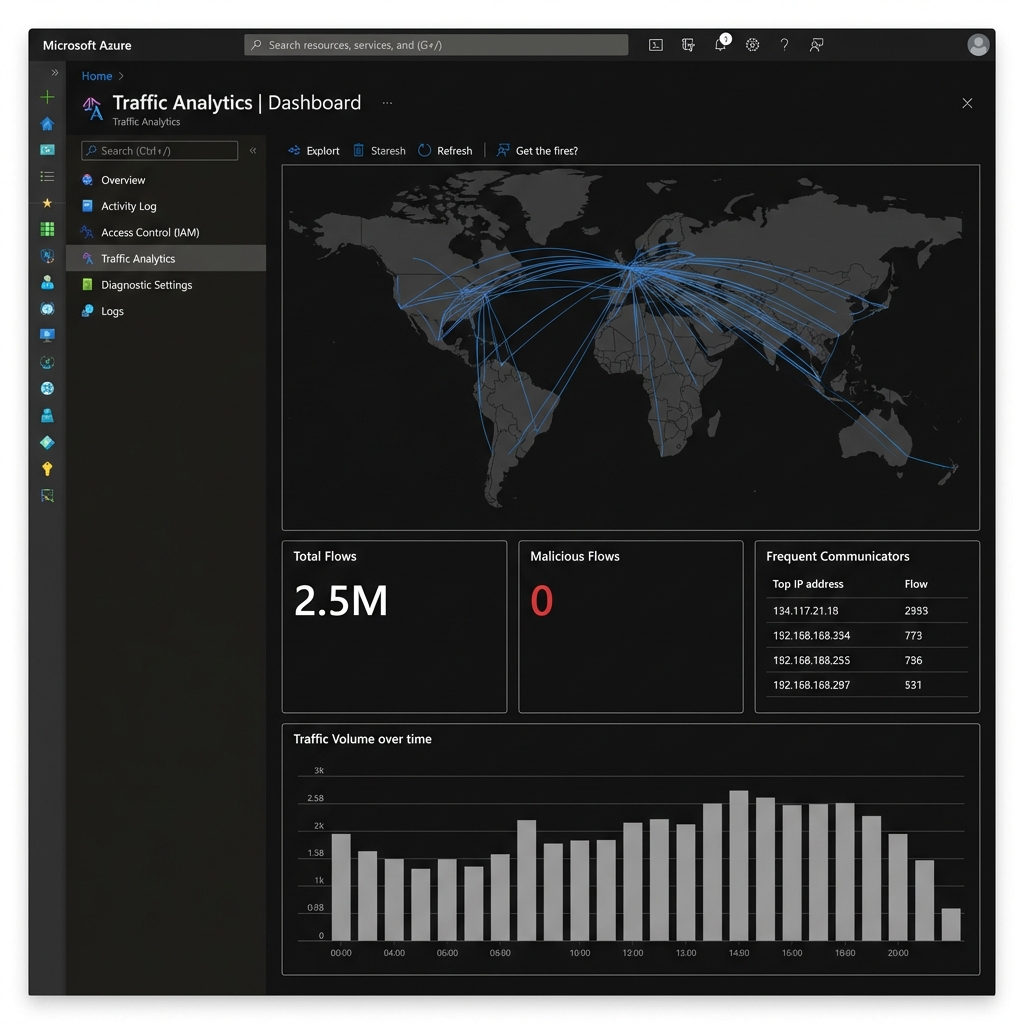
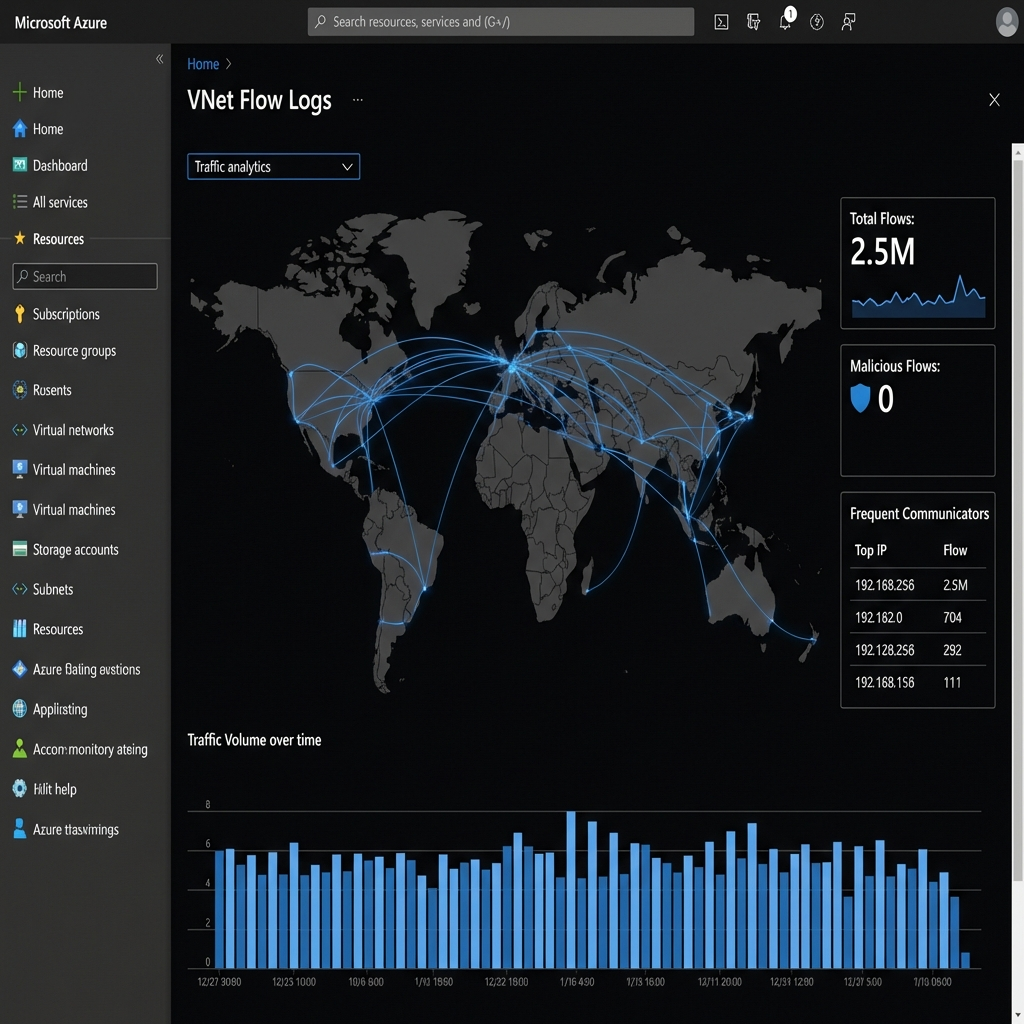
Docs: Modernized observability visuals to feature VNet Flow Logs (Authentic Screenshot)

diff --git a/README.md b/README.md
@@ -52,10 +52,10 @@ The architecture follows a vertical logic designed for regulatory compliance and
 
 Beyond architecture, this lab provides visual proof of network health and security status.
 
-#### 1. Traffic Analytics (The Global View)
-Visualization of all VNet and NSG flows, identifying potential malicious traffic and validating that East-West traffic is indeed being inspected.
+#### 1. VNet Flow Logs & Traffic Analytics
+Visualization of all VNet and NSG flows, identifying potential malicious traffic and validating that East-West traffic is indeed being inspected. We specifically use **VNet Flow Logs** to capture encryption status and ensure 100% configuration coverage.
 
-<img src="assets/images/traffic-analytics.png" width="800" alt="Azure Traffic Analytics Dashboard">
+<img src="assets/images/traffic-analytics.png" width="800" alt="Azure Traffic Analytics Dashboard featuring VNet Flow Logs">
 
 #### 2. Connection Monitor (The Pulse)
 Continuous, 24/7 validation of critical network paths (e.g., Spoke VM to Internet, or Spoke-to-Spoke) with real-time latency and availability metrics.
